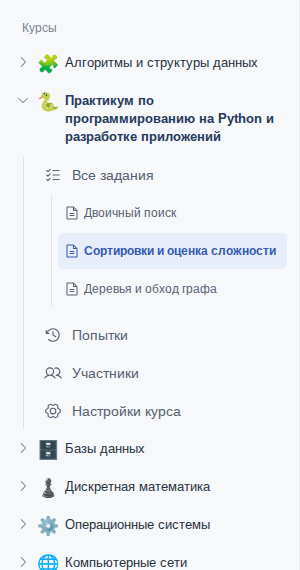
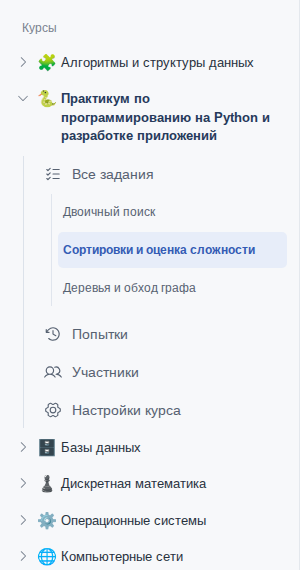
style(prototype): снизить визуальную плотность дерева курсов

diff --git a/src/app/navigation-prototype/navigation-prototype.tsx b/src/app/navigation-prototype/navigation-prototype.tsx
@@ -5,7 +5,6 @@ import { useQuery, useQueryClient, useMutation } from "@tanstack/react-query";
 import {
   BooksIcon,
   ListChecksIcon,
-  FileTextIcon,
   ClockCounterClockwiseIcon,
   UsersIcon,
   GearSixIcon,
@@ -203,14 +202,16 @@ function NavItem({
 }: {
   path: string;
   label: string;
-  icon: Icon;
+  icon?: Icon;
   active: boolean;
 }) {
   return (
     <Nav path={path} className={`np-nav-item ${active ? "active" : ""}`}>
-      <span aria-hidden="true" className="np-icon">
-        <ItemIcon size={18} weight="regular" />
-      </span>
+      {ItemIcon && (
+        <span aria-hidden="true" className="np-icon">
+          <ItemIcon size={18} weight="regular" />
+        </span>
+      )}
       <span>{label}</span>
     </Nav>
   );
@@ -246,7 +247,6 @@ function CourseNavigation({
               key={id}
               path={`${base}/tasks/${id}`}
               label={name}
-              icon={FileTextIcon}
               active={path === `${base}/tasks/${id}`}
             />
           ))}
@@ -421,7 +421,6 @@ function Sidebar({
                 key={name}
                 path={`${base}/tasks/${index + 1}`}
                 label={name}
-                icon={FileTextIcon}
                 active={path === `${base}/tasks/${index + 1}`}
               />
             ))}

diff --git a/src/app/navigation-prototype/navigation-prototype.css b/src/app/navigation-prototype/navigation-prototype.css
@@ -794,9 +794,6 @@
   gap: 3px;
   padding: 7px 5px;
 }
-.np-task-links .np-icon {
-  flex-basis: 10px;
-}
 .np-tree-loading {
   display: flex;
   align-items: center;
@@ -851,13 +848,6 @@
   align-items: center;
   justify-content: center;
 }
-.np-task-links .np-icon {
-  flex-basis: 18px;
-}
-.np-task-links .np-icon svg {
-  width: 16px;
-  height: 16px;
-}
 .np-course-toggle > span {
   display: flex;
 }
@@ -891,11 +881,11 @@
   flex-shrink: 0;
 }
 .np-course-emoji {
-  flex: 0 0 22px;
-  width: 22px;
+  flex: 0 0 18px;
+  width: 18px;
   text-align: center;
   font:
-    18px/1.1 "Apple Color Emoji",
+    16px/1.15 "Apple Color Emoji",
     "Segoe UI Emoji",
     "Noto Color Emoji",
     sans-serif;

diff --git a/docs/prototypes/navigation/README.md b/docs/prototypes/navigation/README.md
@@ -19,7 +19,7 @@
 
 ## Иконки
 
-Иконки прототипа — Phosphor (`@phosphor-icons/react`): размер 18 px в навигации, начертание `regular` у всех пунктов, включая активный. Стрелки и служебные кнопки тоже используют этот набор. В едином дереве перед названием курса стоят стрелка раскрытия и индивидуальный эмодзи без фоновой плашки; буквенных значков нет. У всех 15 курсов разные эмодзи, например 🐍 для Python и 🎲 для теории вероятностей. [Превью](course-emojis.png). Логотип остаётся текстовым.
+Иконки прототипа — Phosphor (`@phosphor-icons/react`): размер 18 px в навигации, начертание `regular` у всех пунктов, включая активный. Стрелки и служебные кнопки тоже используют этот набор. В едином дереве перед названием курса стоят стрелка раскрытия и индивидуальный эмодзи без фоновой плашки; буквенных значков нет. Эмодзи уменьшены до 16 px, слот — 18 px; у отдельных заданий иконки убраны, у разделов сохранены. У всех 15 курсов разные эмодзи, например 🐍 для Python и 🎲 для теории вероятностей. [Превью](course-emojis.png). Логотип остаётся текстовым.
 
 ## Проверка с 15 курсами
 
